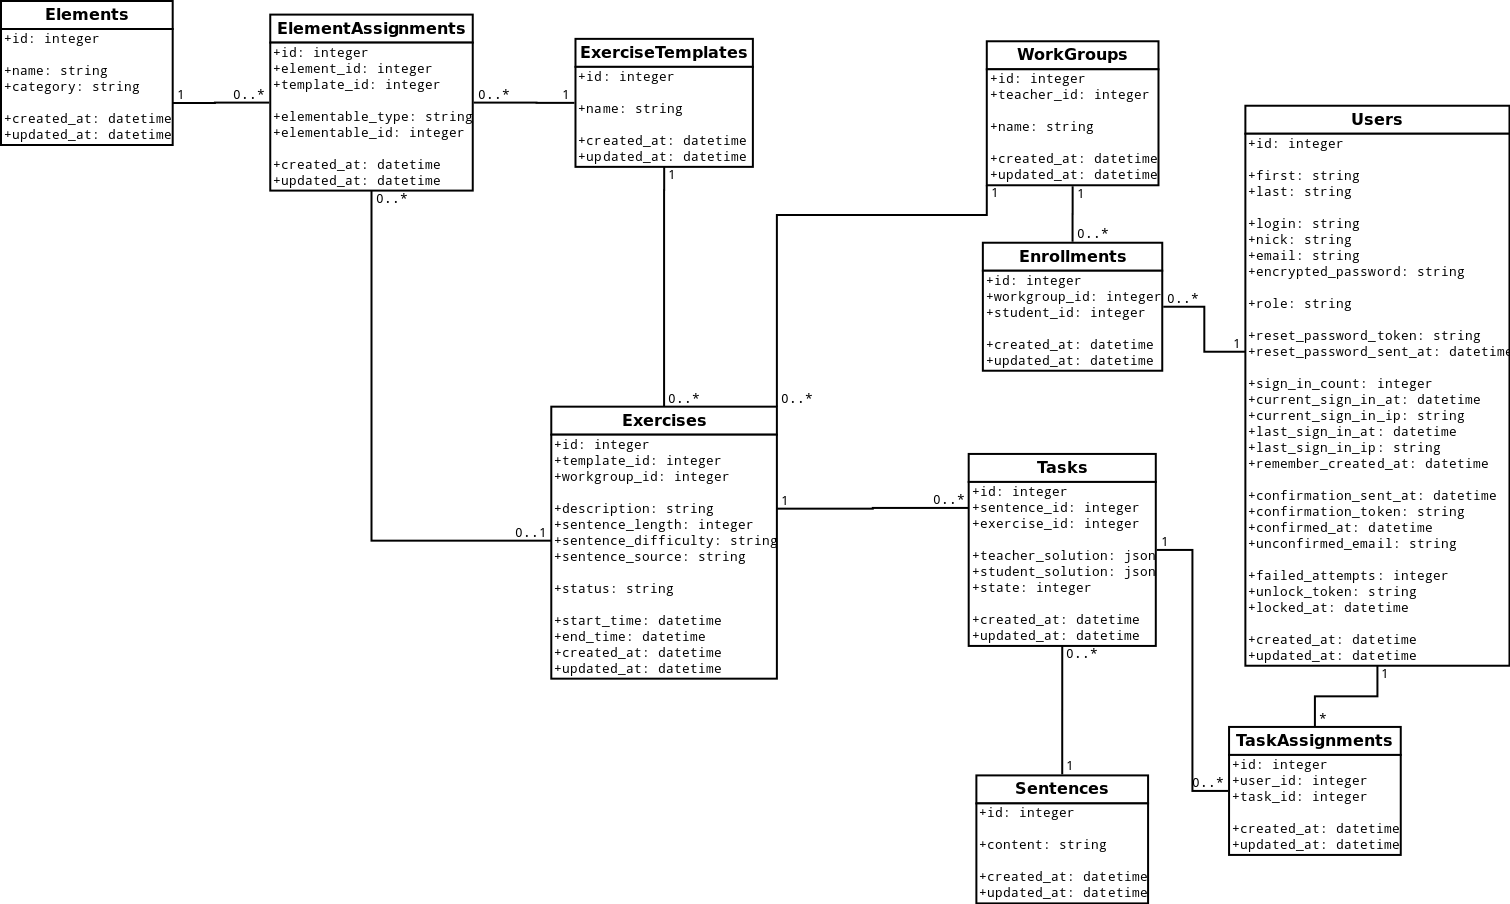
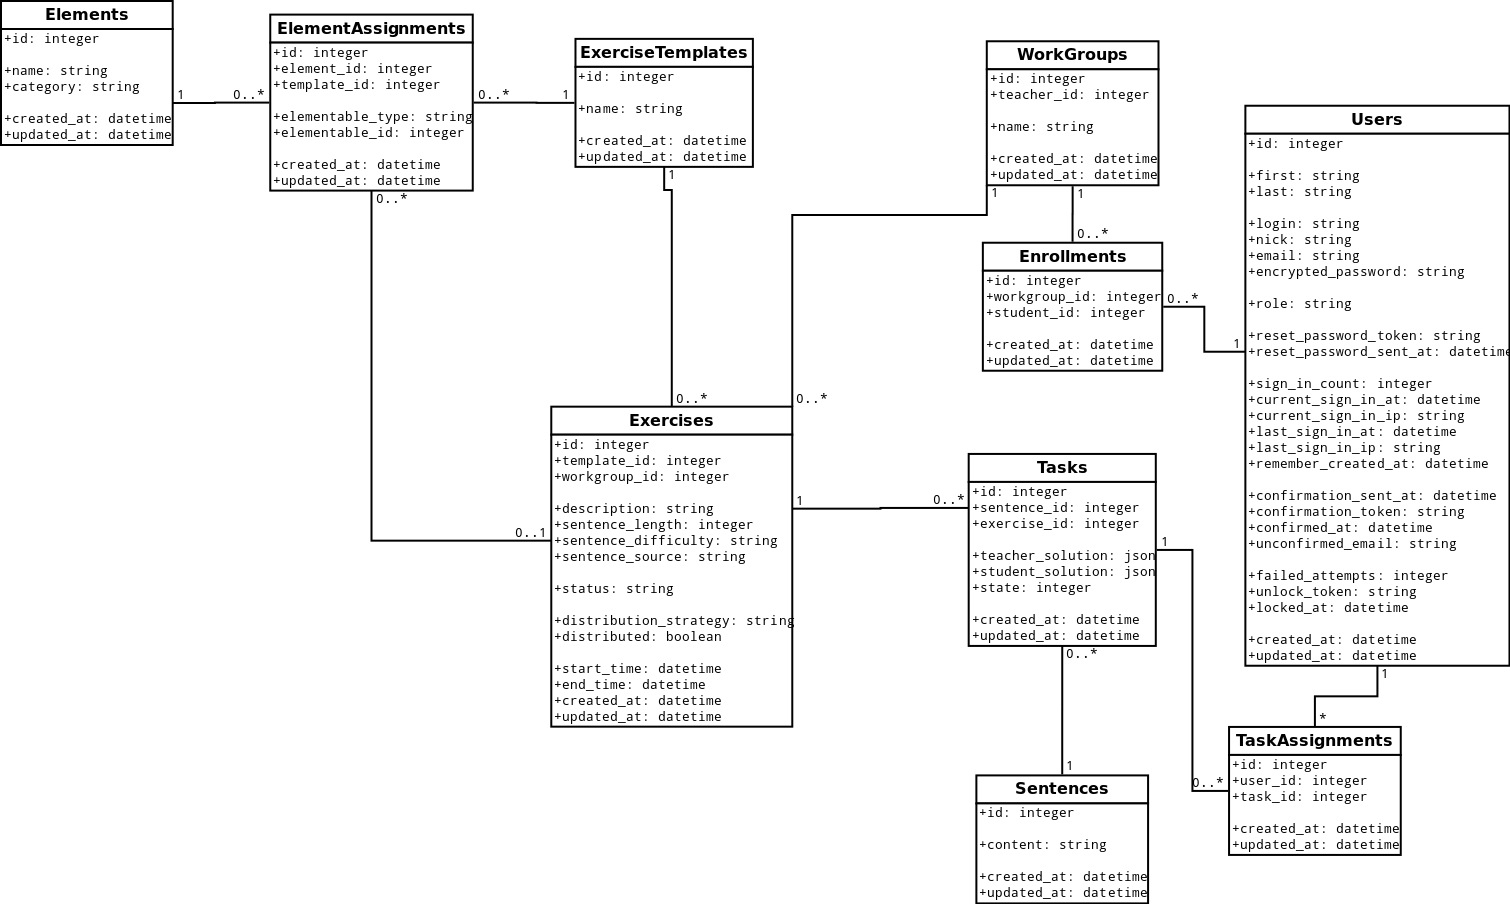
Add distribution strategy and distributed flag to exercises

Changed region(s): [[0.3424, 0.2478, 0.5291, 0.8053], [0.4046, 0.2168, 0.4669, 0.4956]]

diff --git a/db/migrate/20140927160123_add_distribution_strategy_to_exercise.rb b/db/migrate/20140927160123_add_distribution_strategy_to_exercise.rb
@@ -1,0 +1,6 @@
+class AddDistributionStrategyToExercise < ActiveRecord::Migration
+  def change
+    add_column :exercises, :distribution_strategy, :string, null: false, default: ''
+    add_column :exercises, :distributed, :boolean, null: false, default: false
+  end
+end
